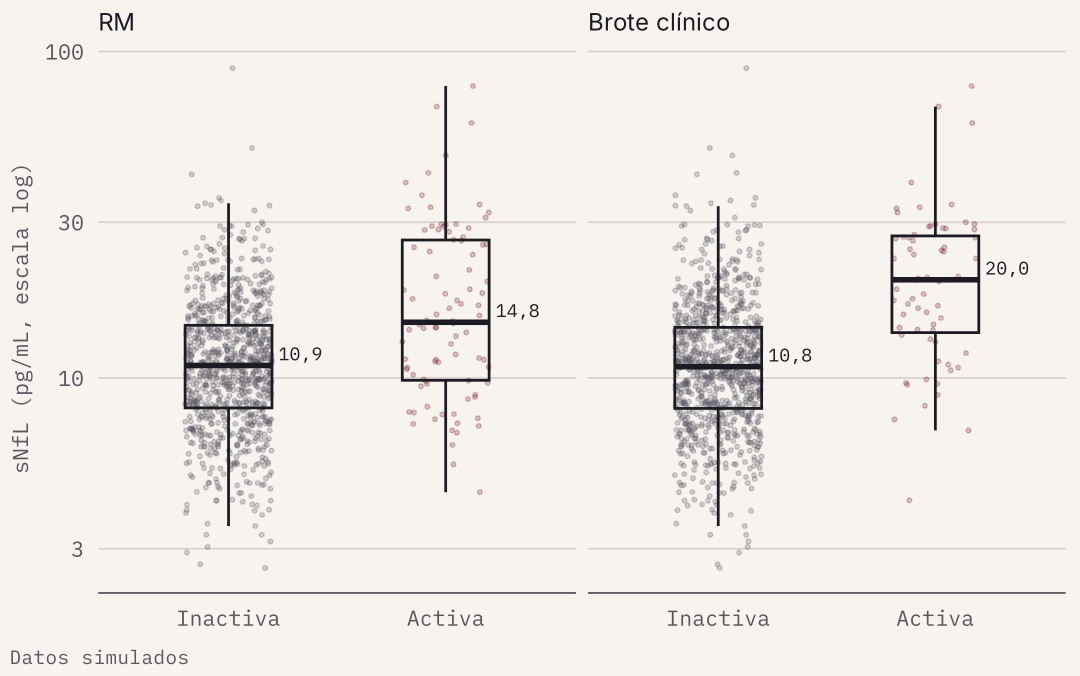
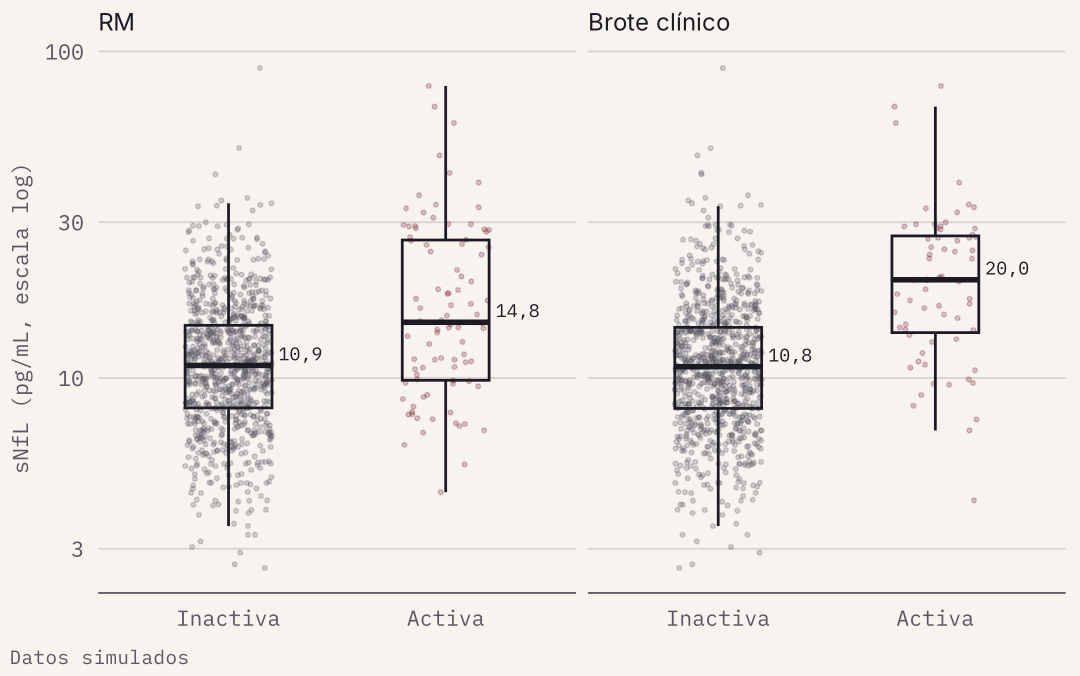
PBT con los límites de Varelli et al. y asignación correcta de la década
- Sustituye los límites ilustrativos del umbral poblacional (PBT) por los
  publicados para Lumipulse G (Varelli et al., Neurol Sci 2024), los mismos
  que se usaron en el estudio.
- La década de edad se asigna con los años cumplidos: antes, una edad con
  decimales entre dos décadas (por ejemplo, 29,5) se quedaba sin límite.

Claude-Session: https://claude.ai/code/session_01K2xPuJKV2KHVuiKsmZzJ5n

diff --git a/analisis.md b/analisis.md
@@ -97,17 +97,17 @@ round(100 * RCV, 1)
     #> [1] 27.7
 
 ``` r
-# PBT: percentil 95 de sanos por décadas de edad (pg/mL).
-# ATENCIÓN: valores ilustrativos. Para usarlo de verdad, sustituir por los
-# límites de referencia publicados para la plataforma de medida.
+# PBT: límite superior de referencia (percentil 95) de sanos por décadas de
+# edad, medidos con Lumipulse G (Varelli et al., 282 sujetos; los mismos
+# límites que se usaron en el estudio)
 PBT_LIMITS <- tribble(
   ~age_min, ~age_max, ~upper_limit,
-  18,        29,       10.5,
-  30,        39,       12.0,
-  40,        49,       15.0,
-  50,        59,       19.0,
-  60,        69,       25.0,
-  70,        90,       33.0
+  18,        29,        9.4,
+  30,        39,        9.6,
+  40,        49,       13.3,
+  50,        59,       21.2,
+  60,        69,       28.1,
+  70,        90,       46.8
 )
 
 # Función renal: categorías KDIGO
@@ -143,9 +143,10 @@ nfl <- nfl |>
   mutate(pct_change = nfl / lag(nfl) - 1,
          rcv_bin    = as.integer(pct_change > RCV)) |>
   ungroup() |>
-  left_join(PBT_LIMITS, join_by(between(age, age_min, age_max, bounds = "[)"))) |>
+  mutate(age_years = floor(age)) |>   # años cumplidos, para asignar la década
+  left_join(PBT_LIMITS, join_by(between(age_years, age_min, age_max))) |>
   mutate(pbt_bin = as.integer(nfl > upper_limit)) |>
-  select(-age_min, -age_max)
+  select(-age_years, -age_min, -age_max)
 
 # Emparejar cada determinación con su RM y sus brotes
 prepare <- function(window_days) {
@@ -191,8 +192,8 @@ glimpse(analysis_df)
     #> $ diabetes       <fct> No, No, No, No, No, No, No, No, No, No, No, No, No, No,…
     #> $ pct_change     <dbl> NA, -0.45671800, 0.34799609, NA, -0.08643617, 0.0851528…
     #> $ rcv_bin        <int> NA, 0, 1, NA, 0, 0, 0, 0, 1, NA, 0, 0, NA, 0, NA, 0, 1,…
-    #> $ upper_limit    <dbl> 15, 15, 15, 15, 15, 15, 15, 15, 15, 15, 15, 15, 15, 15,…
-    #> $ pbt_bin        <int> 1, 0, 0, 1, 0, 0, 1, 1, 1, 0, 0, 0, 0, 0, 0, 0, 1, 1, 1…
+    #> $ upper_limit    <dbl> 13.3, 13.3, 13.3, 13.3, 13.3, 13.3, 13.3, 13.3, 13.3, 1…
+    #> $ pbt_bin        <int> 1, 0, 1, 1, 1, 1, 1, 1, 1, 0, 0, 0, 0, 0, 0, 0, 1, 1, 1…
     #> $ relapse        <int> 0, 0, 0, 0, 0, 0, 0, 0, 0, 0, 0, 0, 0, 0, 0, 0, 1, 1, 1…
     #> $ log_nfl        <dbl> 2.935451, 2.325325, 2.623944, 2.710713, 2.620311, 2.702…
     #> $ egfr_kdigo     <fct> G2 (60-89), G1 (>=90), G1 (>=90), G2 (60-89), G2 (60-89…
@@ -437,23 +438,23 @@ c(determinations = nrow(df_obj2), patients = n_distinct(df_obj2$patient_id))
 ```
 
     #> determinations       patients 
-    #>            628            247
+    #>            689            261
 
 ``` r
 fit_cluster_logit(mri_active ~ rcv_bin + pbt_bin + age_c + sex + egfr_bin, df_obj2)
 ```
 
     #>      term   or ci_low ci_high       p
-    #> 1 rcv_bin 3.28   2.01    5.35 2.0e-06
-    #> 2 pbt_bin 2.26   1.17    4.36 1.5e-02
+    #> 1 rcv_bin 3.32   2.07    5.32 6.8e-07
+    #> 2 pbt_bin 2.17   1.11    4.23 2.3e-02
 
 ``` r
 fit_cluster_logit(relapse    ~ rcv_bin + pbt_bin + age_c + sex + egfr_bin, df_obj2)
 ```
 
     #>      term   or ci_low ci_high       p
-    #> 1 rcv_bin 2.85   1.48    5.46 1.7e-03
-    #> 2 pbt_bin 6.57   2.63   16.43 5.6e-05
+    #> 1 rcv_bin 3.17   1.72    5.84 0.00023
+    #> 2 pbt_bin 4.83   1.84   12.65 0.00140
 
 **¿Coinciden RCV y PBT?** Kappa de Cohen y, en los casos discordantes,
 cuánta actividad hay en cada subgrupo.
@@ -465,8 +466,8 @@ tab_agree
 
     #>    PBT
     #> RCV   0   1
-    #>   0 399 103
-    #>   1  60  66
+    #>   0 403 153
+    #>   1  48  85
 
 ``` r
 po <- sum(diag(tab_agree)) / sum(tab_agree)
@@ -475,7 +476,7 @@ round(c(agreement = po, kappa = (po - pe) / (1 - pe)), 3)
 ```
 
     #> agreement     kappa 
-    #>     0.740     0.283
+    #>     0.708     0.280
 
 ``` r
 df_obj2 |>
@@ -489,8 +490,8 @@ df_obj2 |>
     #> # A tibble: 2 × 4
     #>   group         n mri_active_pct relapse_pct
     #>   <chr>     <int>          <dbl>       <dbl>
-    #> 1 PBT+/RCV-   103           14.6        18.4
-    #> 2 RCV+/PBT-    60           21.7        15
+    #> 1 PBT+/RCV-   153           11.1        13.1
+    #> 2 RCV+/PBT-    48           20.8        18.8
 
 ### 4.3. Objetivo 3: rendimiento diagnóstico
 
@@ -505,7 +506,7 @@ c(determinations = nrow(df_roc), patients = n_distinct(df_roc$patient_id),
 ```
 
     #> determinations       patients     mri_events relapse_events 
-    #>            640            251             82             54
+    #>            705            264             86             56
 
 ``` r
 roc_set <- function(outcome) {
@@ -537,28 +538,28 @@ auc_table(rocs_mri);  delong_table(rocs_mri)
 ```
 
     #>   marker   auc ci_low ci_high
-    #> 1    RCV 0.643  0.587   0.700
-    #> 2    PBT 0.611  0.554   0.668
-    #> 3   sNfL 0.653  0.585   0.721
+    #> 1    RCV 0.642  0.587   0.696
+    #> 2    PBT 0.599  0.543   0.655
+    #> 3   sNfL 0.653  0.586   0.719
 
     #>    comparison auc_diff     p
-    #> 1  RCV vs PBT    0.032 0.350
-    #> 2 sNfL vs PBT    0.043 0.031
-    #> 3 sNfL vs RCV    0.010 0.790
+    #> 1  RCV vs PBT    0.043 0.200
+    #> 2 sNfL vs PBT    0.053 0.031
+    #> 3 sNfL vs RCV    0.011 0.760
 
 ``` r
 auc_table(rocs_rel);  delong_table(rocs_rel)
 ```
 
     #>   marker   auc ci_low ci_high
-    #> 1    RCV 0.663  0.594   0.732
-    #> 2    PBT 0.727  0.662   0.791
-    #> 3   sNfL 0.768  0.698   0.838
+    #> 1    RCV 0.667  0.599   0.734
+    #> 2    PBT 0.689  0.625   0.752
+    #> 3   sNfL 0.774  0.706   0.842
 
-    #>    comparison auc_diff     p
-    #> 1  RCV vs PBT   -0.064 0.190
-    #> 2 sNfL vs PBT    0.041 0.036
-    #> 3 sNfL vs RCV    0.105 0.039
+    #>    comparison auc_diff      p
+    #> 1  RCV vs PBT   -0.022 0.6500
+    #> 2 sNfL vs PBT    0.085 0.0033
+    #> 3 sNfL vs RCV    0.107 0.0320
 
 ``` r
 roc_long <- bind_rows(
@@ -602,15 +603,15 @@ bind_rows(
 ```
 
     #>             label TP  FP  TN FN      sensitivity      specificity
-    #> 1 RM activa · RCV 37  92 466 45 45.1 (34.8-55.9) 83.5 (80.2-86.4)
-    #> 2 RM activa · PBT 38 135 423 44 46.3 (36.0-57.1) 75.8 (72.1-79.2)
-    #> 3     Brote · RCV 27 102 484 27 50.0 (37.1-62.9) 82.6 (79.3-85.4)
-    #> 4     Brote · PBT 37 136 450 17 68.5 (55.3-79.3) 76.8 (73.2-80.0)
+    #> 1 RM activa · RCV 38  98 521 48 44.2 (34.2-54.7) 84.2 (81.1-86.8)
+    #> 2 RM activa · PBT 45 201 418 41 52.3 (41.9-62.6) 67.5 (63.7-71.1)
+    #> 3     Brote · RCV 28 108 541 28 50.0 (37.3-62.7) 83.4 (80.3-86.0)
+    #> 4     Brote · PBT 39 207 442 17 69.6 (56.7-80.1) 68.1 (64.4-71.6)
     #>                ppv              npv
-    #> 1 28.7 (21.6-37.0) 91.2 (88.4-93.4)
-    #> 2 22.0 (16.4-28.7) 90.6 (87.6-92.9)
-    #> 3 20.9 (14.8-28.7) 94.7 (92.4-96.3)
-    #> 4 21.4 (15.9-28.1) 96.4 (94.2-97.7)
+    #> 1 27.9 (21.1-36.0) 91.6 (89.0-93.6)
+    #> 2 18.3 (14.0-23.6) 91.1 (88.1-93.3)
+    #> 3 20.6 (14.6-28.1) 95.1 (93.0-96.6)
+    #> 4 15.9 (11.8-20.9) 96.3 (94.1-97.7)
 
 **Punto de corte óptimo de sNfL continua** (índice de Youden), con IC
 por bootstrap (2.000 remuestreos). El umbral se calcula en log y se
@@ -626,11 +627,11 @@ youden_to_pgml(youden_boot(df_roc$mri_active, df_roc$log_nfl))
 ```
 
     #>        metric estimate ci_low ci_high
-    #> 1   threshold   23.790 12.569  25.314
-    #> 2 sensitivity    0.317  0.250   0.700
-    #> 3 specificity    0.948  0.585   0.968
-    #> 4         ppv    0.473  0.179   0.612
-    #> 5         npv    0.904  0.883   0.940
+    #> 1   threshold   23.790 12.695  25.314
+    #> 2 sensitivity    0.302  0.241   0.685
+    #> 3 specificity    0.950  0.619   0.967
+    #> 4         ppv    0.456  0.167   0.583
+    #> 5         npv    0.907  0.891   0.943
 
 ``` r
 youden_to_pgml(youden_boot(df_roc$relapse, df_roc$log_nfl))
@@ -638,10 +639,10 @@ youden_to_pgml(youden_boot(df_roc$relapse, df_roc$log_nfl))
 
     #>        metric estimate ci_low ci_high
     #> 1   threshold   14.010 12.875  19.930
-    #> 2 sensitivity    0.741  0.500   0.854
-    #> 3 specificity    0.703  0.640   0.906
-    #> 4         ppv    0.187  0.147   0.375
-    #> 5         npv    0.967  0.946   0.982
+    #> 2 sensitivity    0.750  0.500   0.857
+    #> 3 specificity    0.698  0.643   0.907
+    #> 4         ppv    0.176  0.139   0.373
+    #> 5         npv    0.970  0.950   0.984
 
 > El punto de corte de Youden se calcula y se evalúa con los mismos
 > datos, así que su rendimiento está sobrestimado. Es exploratorio.
@@ -753,7 +754,7 @@ lesions_b <- lesions |> filter(!is.na(rcv_bin), !is.na(pbt_bin))
 nrow(lesions_b)
 ```
 
-    #> [1] 69
+    #> [1] 71
 
 ``` r
 bind_rows(lapply(c("rcv_bin", "pbt_bin"), function(marker) {
@@ -763,17 +764,17 @@ bind_rows(lapply(c("rcv_bin", "pbt_bin"), function(marker) {
 })) |> select(label, sensitivity, specificity, npv)
 ```
 
-    #>                  label      sensitivity        specificity              npv
-    #> 1  RCV · >= 2 lesiones 93.5 (79.3-98.2)   28.9 (17.0-44.8) 84.6 (57.8-95.7)
-    #> 2  RCV · >= 3 lesiones 61.3 (43.8-76.3)   57.9 (42.2-72.1) 64.7 (47.9-78.5)
-    #> 3  RCV · >= 4 lesiones 48.4 (32.0-65.2)   73.7 (58.0-85.0) 63.6 (48.9-76.2)
-    #> 4  RCV · >= 5 lesiones 35.5 (21.1-53.1)   84.2 (69.6-92.6) 61.5 (48.0-73.5)
-    #> 5  RCV · >= 6 lesiones 29.0 (16.1-46.6)   89.5 (75.9-95.8) 60.7 (47.6-72.4)
-    #> 6  PBT · >= 2 lesiones 90.9 (76.4-96.9)   27.8 (15.8-44.0) 76.9 (49.7-91.8)
-    #> 7  PBT · >= 3 lesiones 69.7 (52.7-82.6)   66.7 (50.3-79.8) 70.6 (53.8-83.2)
-    #> 8  PBT · >= 4 lesiones 54.5 (38.0-70.2)   80.6 (65.0-90.2) 65.9 (51.1-78.1)
-    #> 9  PBT · >= 5 lesiones 48.5 (32.5-64.8)   97.2 (85.8-99.5) 67.3 (53.8-78.5)
-    #> 10 PBT · >= 6 lesiones 39.4 (24.7-56.3) 100.0 (90.4-100.0) 64.3 (51.2-75.5)
+    #>                  label      sensitivity      specificity              npv
+    #> 1  RCV · >= 2 lesiones 93.8 (79.9-98.3) 28.2 (16.5-43.8) 84.6 (57.8-95.7)
+    #> 2  RCV · >= 3 lesiones 62.5 (45.3-77.1) 56.4 (41.0-70.7) 64.7 (47.9-78.5)
+    #> 3  RCV · >= 4 lesiones 50.0 (33.6-66.4) 71.8 (56.2-83.5) 63.6 (48.9-76.2)
+    #> 4  RCV · >= 5 lesiones 37.5 (22.9-54.7) 82.1 (67.3-91.0) 61.5 (48.0-73.5)
+    #> 5  RCV · >= 6 lesiones 28.1 (15.6-45.4) 87.2 (73.3-94.4) 59.6 (46.7-71.4)
+    #> 6  PBT · >= 2 lesiones 89.7 (76.4-95.9) 28.1 (15.6-45.4) 69.2 (42.4-87.3)
+    #> 7  PBT · >= 3 lesiones 66.7 (51.0-79.4) 65.6 (48.3-79.6) 61.8 (45.0-76.1)
+    #> 8  PBT · >= 4 lesiones 51.3 (36.2-66.1) 78.1 (61.2-89.0) 56.8 (42.2-70.3)
+    #> 9  PBT · >= 5 lesiones 43.6 (29.3-59.0) 93.8 (79.9-98.3) 57.7 (44.2-70.1)
+    #> 10 PBT · >= 6 lesiones 33.3 (20.6-49.0) 96.9 (84.3-99.4) 54.4 (41.6-66.6)
 
 ``` r
 for (marker in c("rcv_bin", "pbt_bin")) {
@@ -784,13 +785,13 @@ for (marker in c("rcv_bin", "pbt_bin")) {
 ```
 
     #>   auc             
-    #> 0.669 0.544 0.794 
+    #> 0.664 0.540 0.788 
     #>   threshold specificity sensitivity
-    #> 1       1.5   0.2894737   0.9354839
+    #> 1       1.5   0.2820513      0.9375
     #>   auc             
-    #> 0.762 0.649 0.874 
+    #> 0.720 0.603 0.837 
     #>   threshold specificity sensitivity
-    #> 1       4.5   0.9722222   0.4848485
+    #> 1       4.5      0.9375   0.4358974
 
 > Con tan pocas determinaciones, estos puntos de corte son preliminares.
 
@@ -979,12 +980,12 @@ bind_rows(patient_level_auc("mri_active"), patient_level_auc("relapse"))
 ```
 
     #>   marker   auc ci_low ci_high    outcome patients
-    #> 1    RCV 0.632  0.562   0.701 mri_active      251
-    #> 2    PBT 0.591  0.522   0.661 mri_active      251
-    #> 3   sNfL 0.623  0.534   0.712 mri_active      251
-    #> 4    RCV 0.678  0.589   0.767    relapse      251
-    #> 5    PBT 0.701  0.613   0.788    relapse      251
-    #> 6   sNfL 0.757  0.665   0.849    relapse      251
+    #> 1    RCV 0.634  0.566   0.701 mri_active      264
+    #> 2    PBT 0.576  0.505   0.647 mri_active      264
+    #> 3   sNfL 0.623  0.536   0.710 mri_active      264
+    #> 4    RCV 0.673  0.586   0.761    relapse      264
+    #> 5    PBT 0.691  0.609   0.773    relapse      264
+    #> 6   sNfL 0.761  0.669   0.852    relapse      264
 
 ## 6. Figuras
 

diff --git a/README.md b/README.md
@@ -95,9 +95,15 @@ tres tablas ficticias (determinaciones de sNfL, RM y brotes) con la misma
 estructura y efectos parecidos a los del estudio. Las cifras se parecen a las
 publicadas, pero no son las mismas.
 
-Los límites del umbral poblacional (PBT) del código son **ilustrativos**: para
-aplicarlo de verdad hay que sustituirlos por los límites de referencia
-publicados para la plataforma de medida.
+El umbral poblacional (PBT) usa los límites superiores de referencia
+(percentil 95) por décadas de edad establecidos con Lumipulse G en 282 sujetos
+sanos: Varelli M, Fasano S, Varriale F, Lavano A. Establishment of normal
+reference values for serum neurofilament light based on apparently healthy
+subjects aged 18–90 years. *Neurol Sci.* 2024;45:37.
+
+| Edad (años) | 18-29 | 30-39 | 40-49 | 50-59 | 60-69 | 70-90 |
+|---|---|---|---|---|---|---|
+| Límite superior (pg/mL) | 9,4 | 9,6 | 13,3 | 21,2 | 28,1 | 46,8 |
 
 ## Cómo reproducirlo
 
